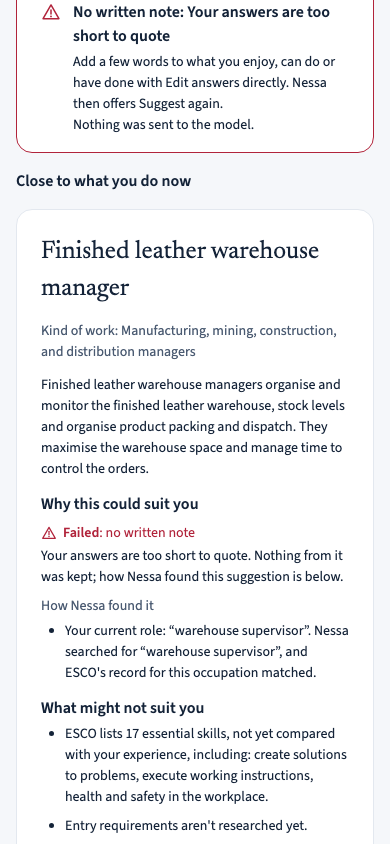
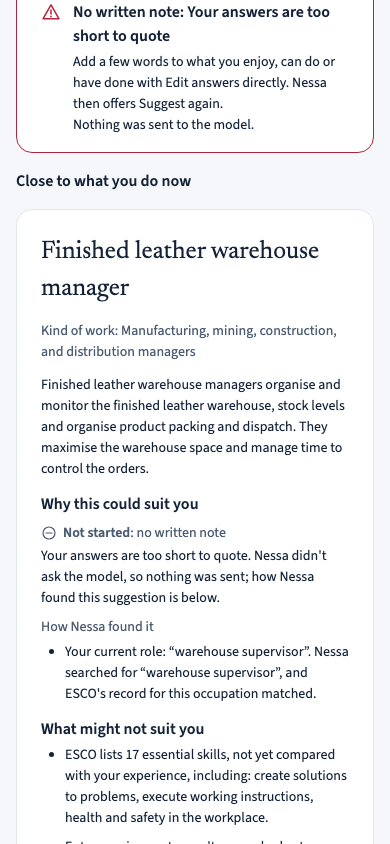
Fix round 3: recapture the answers-too-short note with its refusal wording
The visual spec waits for the card's new line for a refusal made before any
run (R3-M6).

Changed region(s): [[0.0923, 0.6469, 0.8923, 0.9858], [0.0923, 0.6161, 0.5846, 0.6469]]

diff --git a/apps/web/e2e/visual.spec.ts b/apps/web/e2e/visual.spec.ts
@@ -416,7 +416,7 @@ const shots = (scratch: Scratch): Shot[] => [
     url: chapterUrl("you", scratch.talked),
     prepare: noteRefused("INSUFFICIENT_EVIDENCE", "no_quotable_answer"),
     refused: true, // the intercepted 422 is logged as a failed load
-    ready: slateNote(/Your answers are too short to quote\. Nothing from it/, true),
+    ready: slateNote(/Your answers are too short to quote\. Nessa didn't ask the model/, true),
   },
   {
     // A message with a risk stem is sent as usual, with the support panel beside it. The
